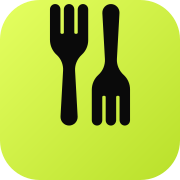
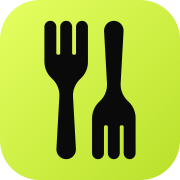
Re-center forks brand mark and bump size a couple px
The two-fork mark was sitting at the top of its tile because the
SVG group transform only translated X, not Y. The original paths
fill ~the full 0-100 viewBox, so scale(0.72) shrank the content
to 72% with its center landing at y=36 instead of y=50.

Now using translate(9 9) scale(0.82): math is 50(1-s) for both
axes, so the mark is properly centered, and the 0.82 vs 0.72
scale gives it the few extra px the user asked for. Also bumped
BrandTile's inner mark from 62% to 72% of the tile size for the
same effect on the in-app brand tile.

Updated favicon.svg + regenerated all PWA icons (192, 512, 512-
maskable, apple-touch) via scripts/generate-icons.mjs. Maskable
uses a tighter scale (0.52) since it has to live inside the
safe-area circle.

Changed region(s): [[0.5, 0.0, 0.7778, 0.8889], [0.2222, 0.0, 0.5, 0.8889]]

diff --git a/src/components/BrandMark.tsx b/src/components/BrandMark.tsx
@@ -20,7 +20,7 @@ export function BrandMark({
       aria-hidden="true"
       fill={color}
     >
-      <g transform="translate(14 0) scale(0.72)">
+      <g transform="translate(9 9) scale(0.82)">
         <path d="m47.266 4.1719c0.84375 0.76562 1.3438 1.875 1.3438 3.0312v23.875c0 4.2188-1.7812 8.2656-4.8906 11.094-3.5781 3.2656-5.4844 7.7656-5.2344 12.359l1.9688 35.281c0.015625 0.09375 0.015625 0.25 0.015625 0.39062 0 1.7344-0.65625 3.3906-1.8594 4.6562-1.2656 1.2969-2.9531 2.0156-4.75 2.0156s-3.4844-0.71875-4.7344-2.0156c-1.2969-1.3281-1.9844-3.1719-1.875-5.0469l1.9844-35.391c0.26562-4.5625-1.5938-9.0938-4.9688-12.109-3.2812-2.9375-5.1562-7.1719-5.1562-11.609v-23.5c0-1.0938 0.4375-2.1406 1.1875-2.8906 0.75-0.76562 1.7656-1.1875 2.8438-1.1875 2.2344 0 4.0469 1.8281 4.0469 4.0781v17.906c0 0.53125 0.40625 0.95312 0.90625 0.95312h0.82812c0.5 0 0.90625-0.42188 0.90625-0.95312v-17.906c0-1.1562 0.48438-2.2656 1.3438-3.0469 0.84375-0.75 1.9531-1.125 3.0938-1.0156 2.0781 0.23438 3.625 2.0312 3.625 4.2031v17.766c0 0.53125 0.40625 0.95312 0.90625 0.95312h0.82812c0.5 0 0.90625-0.42188 0.90625-0.95312v-17.766c0-2.1719 1.5469-3.9688 3.6094-4.2031 1.1406-0.10938 2.2812 0.26562 3.125 1.0312z" />
         <path d="m80.891 68.922v23.875c0 1.1562-0.5 2.2656-1.3438 3.0312-0.75 0.67188-1.7188 1.0469-2.7188 1.0469-0.125 0-0.26562 0-0.39062-0.015625-2.0781-0.23438-3.625-2.0312-3.625-4.2031v-17.766c0-0.53125-0.40625-0.95312-0.90625-0.95312h-0.82812c-0.5 0-0.90625 0.42188-0.90625 0.95312v17.766c0 2.1719-1.5469 3.9688-3.6094 4.2031-1.1406 0.10938-2.2656-0.26562-3.1094-1.0156-0.85938-0.78125-1.3438-1.8906-1.3438-3.0469v-17.906c0-0.53125-0.40625-0.95312-0.90625-0.95312h-0.82812c-0.5 0-0.90625 0.42188-0.90625 0.95312v17.906c0 2.25-1.8125 4.0781-4.0469 4.0781-1.0781 0-2.0938-0.4375-2.8594-1.2031-0.73438-0.73438-1.1719-1.7812-1.1719-2.875v-23.5c0-4.4375 1.875-8.6719 5.1562-11.609 3.375-3.0156 5.2344-7.5469 4.9688-12.109l-1.9844-35.391c-0.10938-1.875 0.57812-3.7188 1.875-5.0469 1.25-1.2969 2.9375-2.0156 4.7344-2.0156s3.4844 0.71875 4.7344 2.0156c1.2188 1.2656 1.875 2.9219 1.875 4.6562 0 0.14062 0 0.29688-0.015625 0.45312l-1.9688 35.219c-0.25 4.5938 1.6562 9.0938 5.2344 12.359 3.1094 2.8281 4.8906 6.875 4.8906 11.094z" />
       </g>
@@ -51,7 +51,7 @@ export function BrandTile({
       }}
       aria-hidden="true"
     >
-      <BrandMark size={Math.round(size * 0.62)} color="var(--color-ink)" />
+      <BrandMark size={Math.round(size * 0.72)} color="var(--color-ink)" />
     </div>
   );
 }
